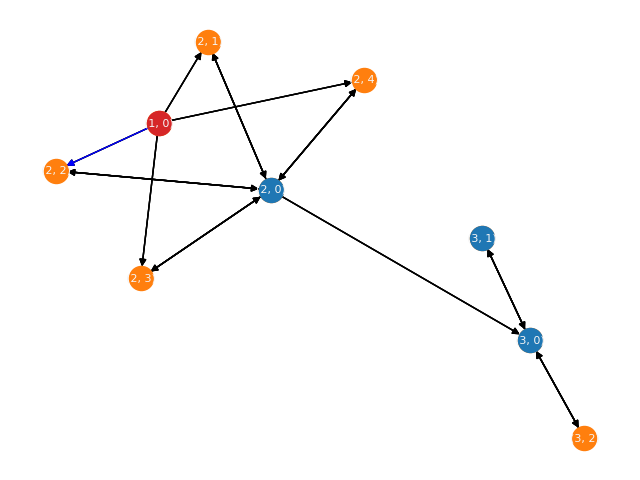
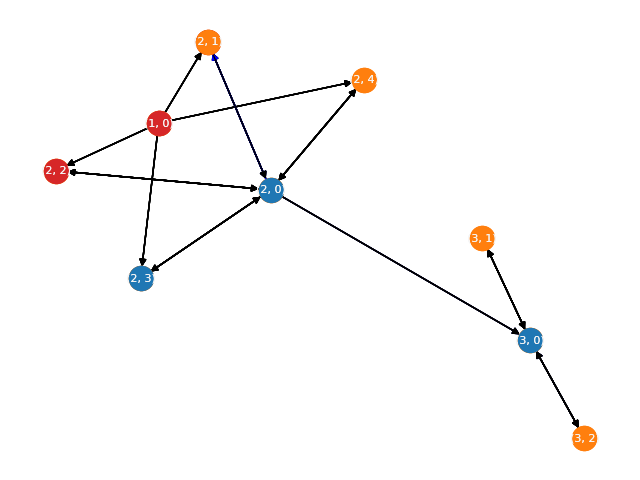
Possible attacks/exploits now takes the hardenings into account. Added a lazy defender.

diff --git a/project/defender.py b/project/defender.py
@@ -20,9 +20,18 @@ class Defender:
         self.network = network
         self.strategy = strategy
         self.score = 0
+        self.harden_host_allowed = glob.harden_host_allowed.get()
+        self.harden_edge_allowed = glob.harden_edge_allowed.get()
+
+        self.failed_att_hosts = [] #hmmmmm, nodig?
+        self.failed_att_edges = [] #hmmmmm, nodig?
+
 
 
     def get_score(self):
+        """
+        Return the score of the defender.
+        """
         return self.score
 
 
@@ -47,12 +56,45 @@ class Defender:
         if self.strategy == "random":
             # while True:
             #     yield self.env.process(self.random_defense())
-            yield self.env.process(self.first_layer_defense())
 
+            # yield self.env.process(self.first_layer_defense())
+            yield self.env.process(self.lazy_defense())
+
+            while True:
+                yield self.env.process(self.random_defense())
+
+        elif self.strategy == "last layer":
             yield self.env.process(self.last_layer_defense())
 
             while True:
                 yield self.env.process(self.random_defense())
+
+        elif self.strategy == "lazy":
+            yield self.env.process(self.lazy_defense())
+
+
+    def lazy_defense(self):
+        """
+        Only harden the hosts/edges which had a failed attack.
+        """
+
+        att_hosts = self.network.get_failed_att_hosts()
+        att_edges = self.network.get_failed_att_edges()
+
+        for host in att_hosts:
+            yield self.env.process(self.fully_harden_host(host))
+
+        for edge in att_edges:
+            yield self.env.process(self.fully_harden_edge(edge))
+
+        self.network.reset_failed_att_hosts()
+        self.network.reset_failed_att_edges()
+
+        # Wait if there was no failed attack.
+        # To prevent looping too fast.
+        if att_hosts == [] and att_edges == []:
+            yield self.env.timeout(0.5)
+
 
 
     def first_layer_defense(self):

diff --git a/project/simulator.py b/project/simulator.py
@@ -208,6 +208,7 @@ class App(customtkinter.CTk):
 
         self.harden_edge = customtkinter.CTkSwitch(master=self.edge_frame, text="Harden edge")
         self.harden_edge.grid(row=1, column=0, padx=20, pady=20, sticky="W")
+        glob.harden_edge_allowed = self.harden_edge
 
         # Frame for host actions
         self.host_frame = customtkinter.CTkFrame(self.tabview.tab("Defender"))
@@ -218,6 +219,7 @@ class App(customtkinter.CTk):
 
         self.harden_host = customtkinter.CTkSwitch(master=self.host_frame, text="Harden host")
         self.harden_host.grid(row=1, column=0, padx=20, pady=20, sticky="W")
+        glob.harden_host_allowed = self.harden_host
 
         """
         -------------------------------------------------------------------------------------------

diff --git a/project/network.py b/project/network.py
@@ -164,8 +164,9 @@ class Host:
         """
         poss_atts = []
         for att in glob.atts_h:
-            if att.process in self.get_processes():
-                poss_atts.append(att)
+            if att.get_process() in self.get_processes():
+                if att.get_name() not in self.get_hardened():
+                    poss_atts.append(att)
 
         return poss_atts
 

diff --git a/project/globals.py b/project/globals.py
@@ -13,6 +13,8 @@ NUM_SIMS = 1
 OUT_FILENAME = "output"
 
 attacker_list= []
+harden_host_allowed = None
+harden_edge_allowed = None
 
 """
 Define logging settings.
